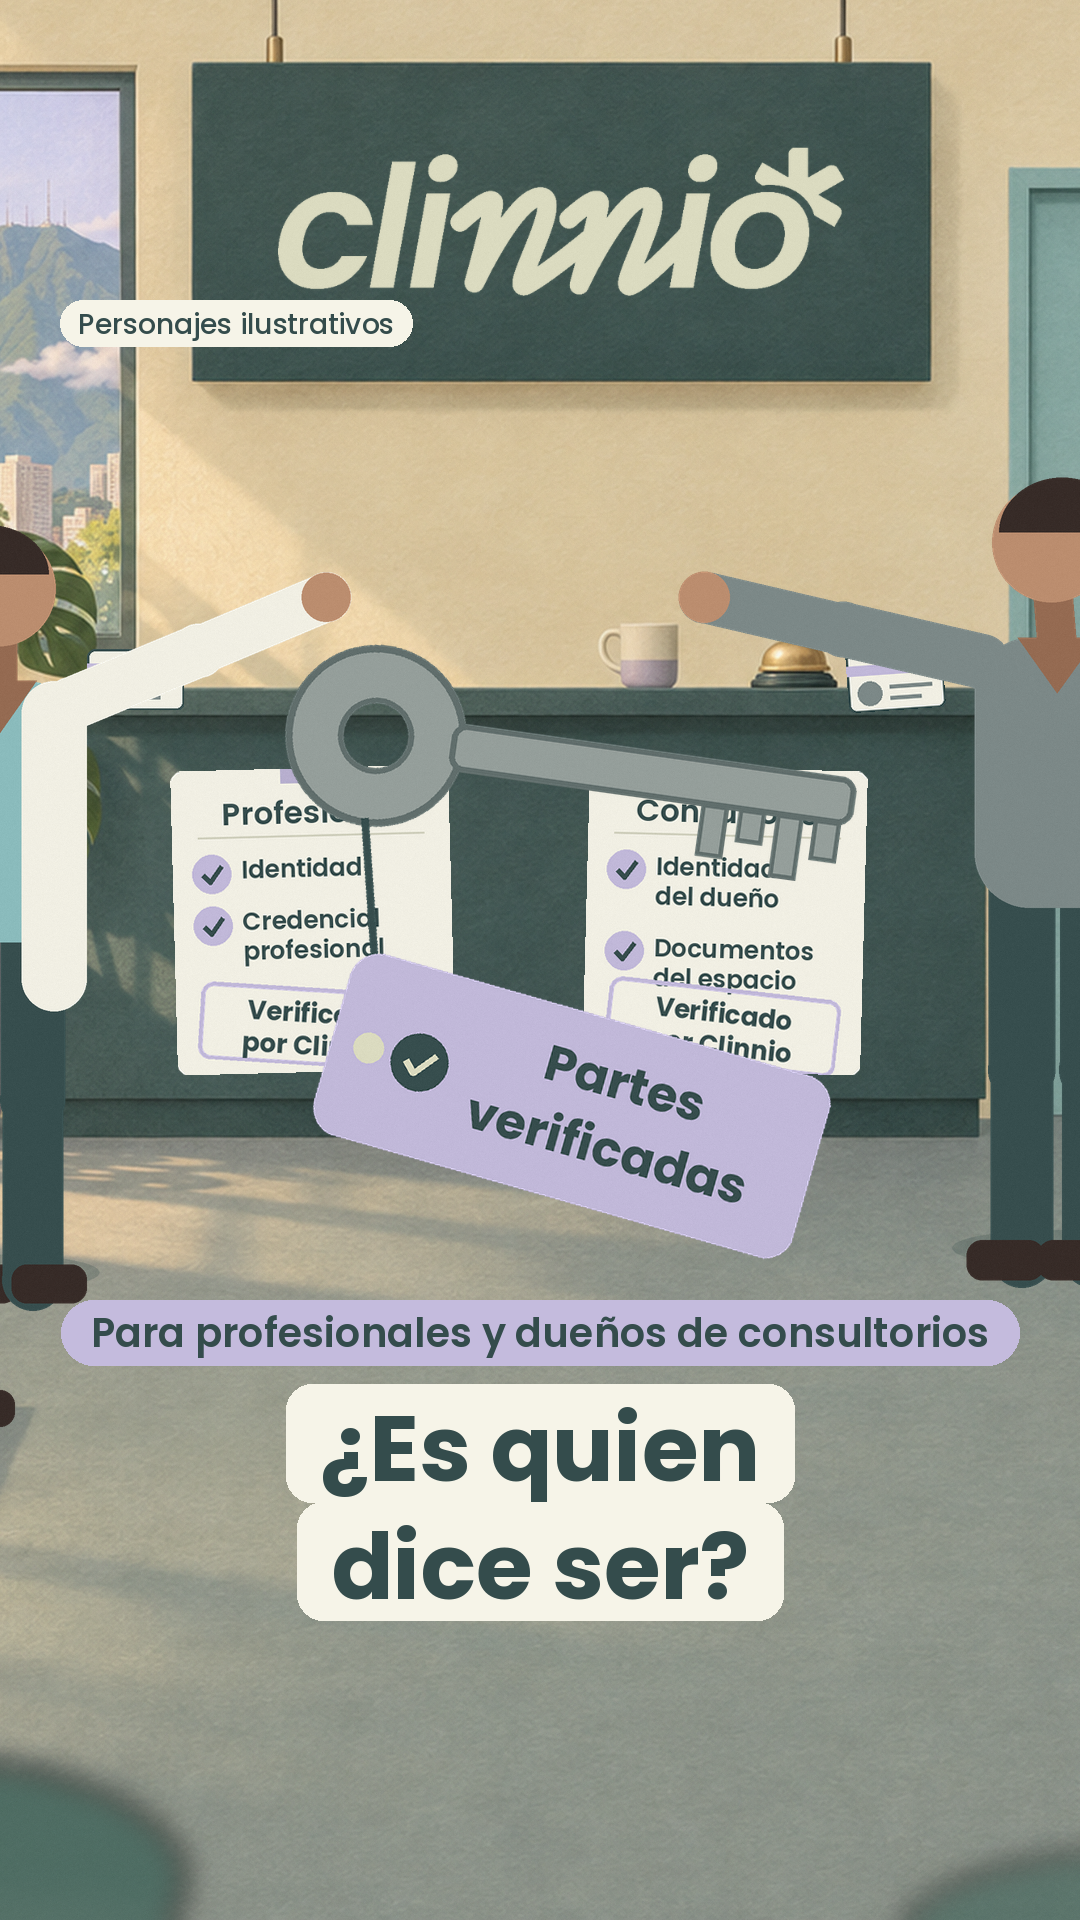
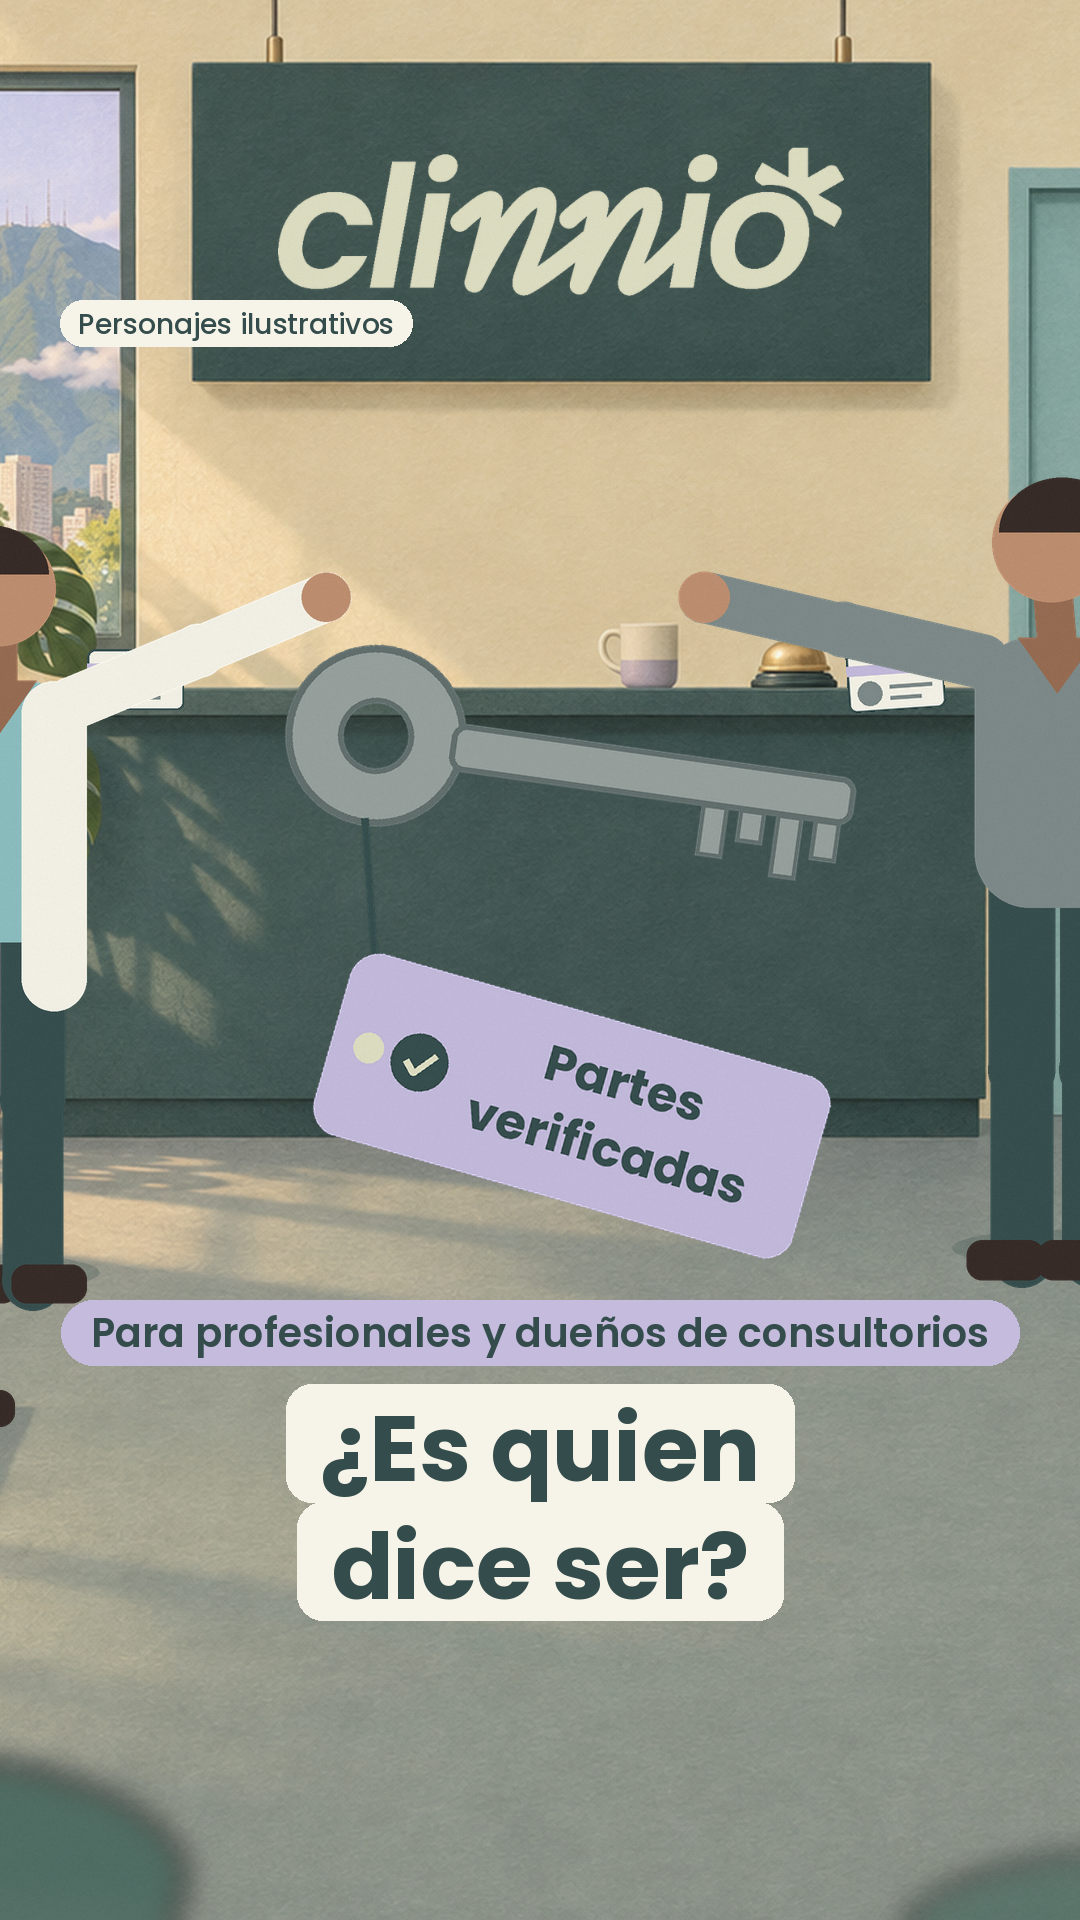
Reel 14 v5: portada sin notas tapadas

Changed region(s): [[0.5194, 0.375, 0.825, 0.5625], [0.1528, 0.375, 0.4278, 0.5625]]

diff --git a/r-78fd40e24fc2/reel-14-v5-llave/Reel_14_v5_llave_textos.md b/r-78fd40e24fc2/reel-14-v5-llave/Reel_14_v5_llave_textos.md
@@ -64,7 +64,7 @@ Ilustración de la recepción de un consultorio en Caracas, con el Ávila en la 
 
 ## Portada
 
-Reel_14_v5_llave_portada.png · 1080x1920: la llave cruzando sobre el mostrador con el llavero «Partes verificadas», las dos notas verificadas detrás y el rótulo de Clinnio arriba; etiqueta «Para profesionales y dueños de consultorios» y promesa «¿Es quien dice ser?», dentro de la zona segura (y 285 a 1635). César la fija desde la app de Instagram.
+Reel_14_v5_llave_portada.png · 1080x1920: la llave cruzando sobre el mostrador entre la profesional y el dueño, con el llavero «Partes verificadas» y el rótulo de Clinnio arriba (sin las notas, para que nada quede tapado); etiqueta «Para profesionales y dueños de consultorios» y promesa «¿Es quien dice ser?», dentro de la zona segura (y 285 a 1635). César la fija desde la app de Instagram.
 
 ## Prueba anti-parecido (frente a V-167 v4, V-166 v3 y Carrusel B)
 
